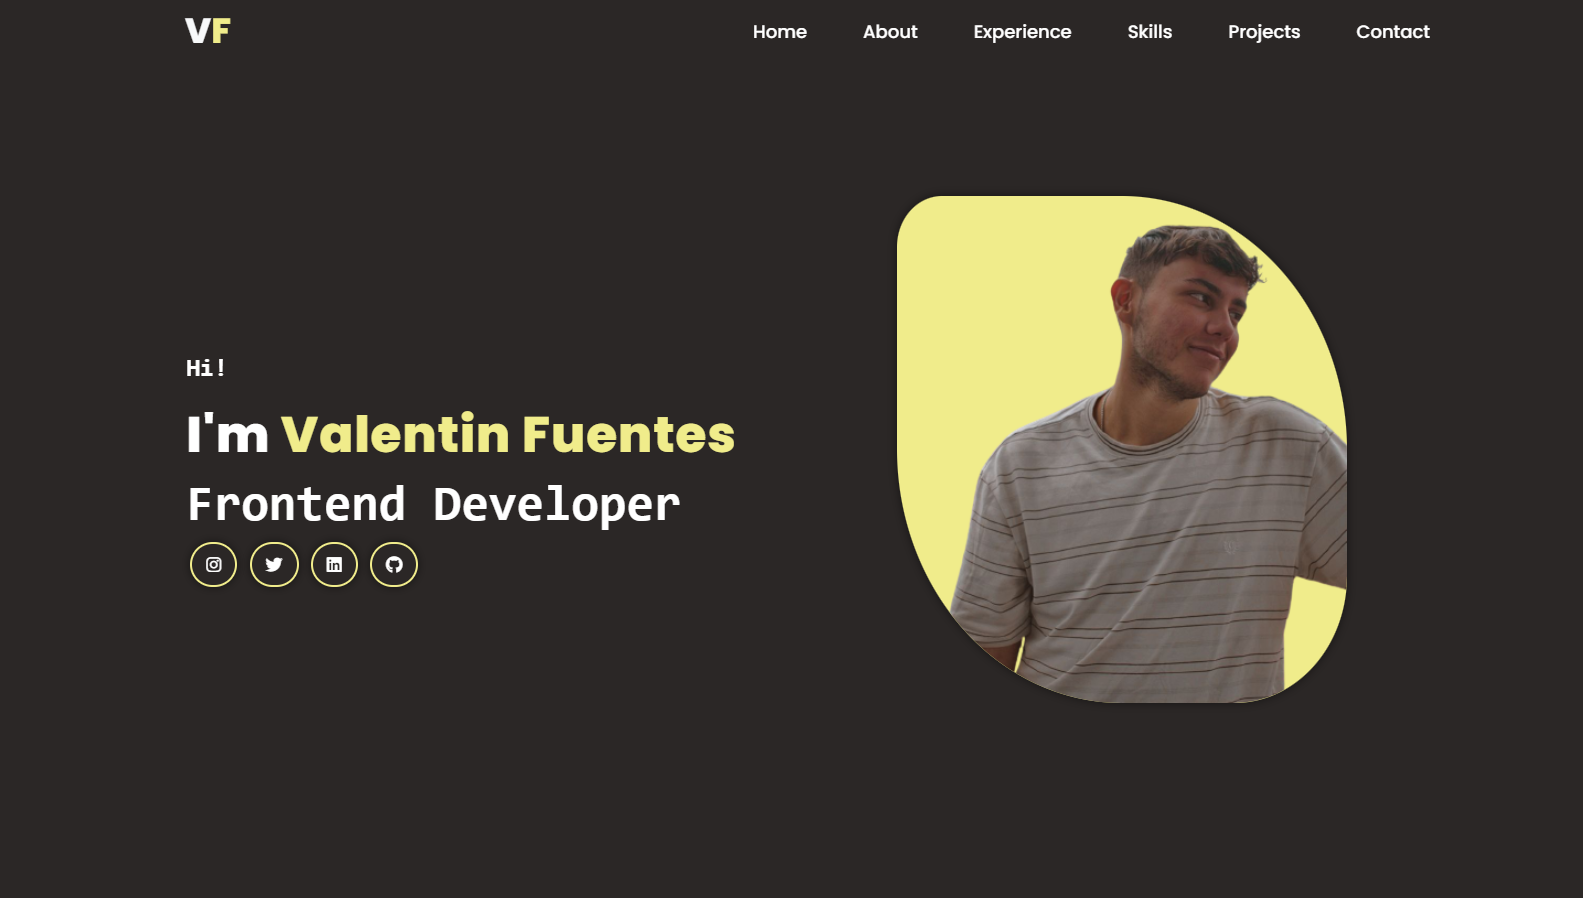
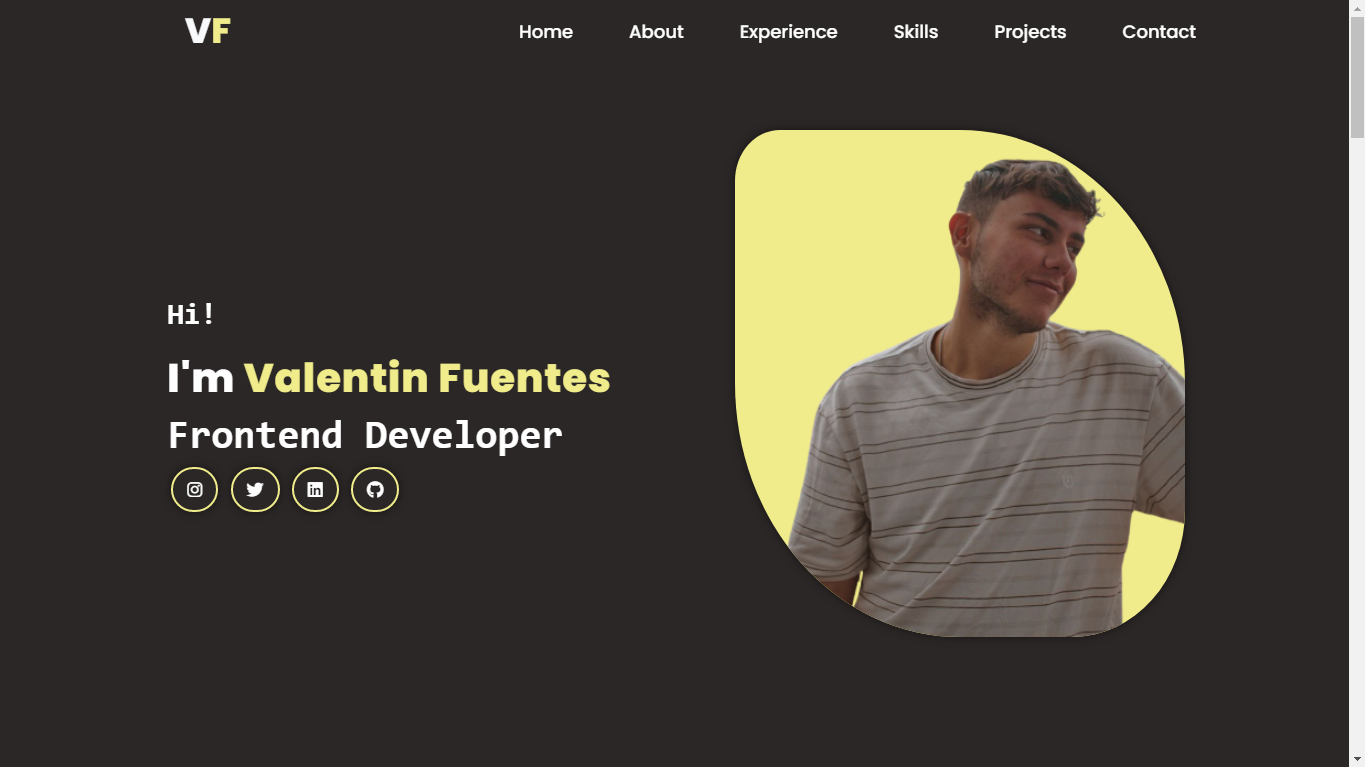
Se pule el proyecto de forma responsive

diff --git a/index.html b/index.html
@@ -288,7 +288,7 @@
                     <div class="popuproject-inner">
                         <div class="popuproject__photo">
                             <h1>My First Project</h1>
-                            <p>Using HTML5, CSS3, SASS, BOOTSRAP5.</p>
+                            <p>Using HTML5, CSS3, JAVASCRIPT, SASS, BOOTSRAP5.</p>
                             <div id="carouselExample1" class="carousel slide">
                                 <div class="carousel-inner">
                                     <div class="carousel-item active">
@@ -302,7 +302,16 @@
                                     </div>
                                     <div class="carousel-item">
                                         <img src="images/projectskills.png" class="img_popuproject" alt="Skills">
-                                        </div>
+                                    </div>
+                                    <div class="carousel-item">
+                                        <img src="images/projectsmyprojects.png" class="img_popuproject" alt="My Projects1">
+                                    </div>
+                                    <div class="carousel-item">
+                                        <img src="images/projectsmyprojects1.png" class="img_popuproject" alt="My Projects2">
+                                    </div>
+                                    <div class="carousel-item">
+                                        <img src="images/projectcontactme.png" class="img_popuproject" alt="Contact Me">
+                                    </div>
                                 </div>
                                 <button class="carousel-control-prev" type="button" data-bs-target="#carouselExample1" data-bs-slide="prev">
                                     <span class="carousel-control-prev-icon" aria-hidden="true"></span>
@@ -324,7 +333,7 @@
             </div>
             <hr class="border"></hr>
             <div class="col-lg-6">
-                <h5 class="subheadings mt-5">Second</h5>
+                <h5 class="subheadings mt-5">Second Project</h5>
                 <p class="para_text mt-5">Lorem, ipsum dolor sit amet consectetur adipisicing elit. Porro, non, explicabo dignissimos quia alias laborum libero praesentium ratione vero sit enim eius suscipit? Tenetur numquam tempore impedit eaque cupiditate sint?</p>
             </div>
             <div class="col-lg-6">
@@ -343,7 +352,7 @@
                     <div class="popuproject-inner">
                         <div class="popuproject__photo">
                             <h1>My Second Project</h1>
-                            <p>Using HTML5, CSS3, SASS, BOOTSRAP5.</p>
+                            <p>Empty.</p>
                             <div id="carouselExample2" class="carousel slide">
                                 <div class="carousel-inner">
                                     <div class="carousel-item active">
@@ -390,7 +399,7 @@
                     <div class="popuproject-inner">
                         <div class="popuproject__photo">
                             <h1>My Third Project</h1>
-                            <p>Using HTML5, CSS3, SASS, BOOTSRAP5.</p>
+                            <p>Empty.</p>
                             <div id="carouselExample3" class="carousel slide">
                                 <div class="carousel-inner">
                                     <div class="carousel-item active">
@@ -421,7 +430,7 @@
                 </div>
             </div>
             <div class="col-lg-6">
-                <h5 class="subheadings mt-5">Third</h5>
+                <h5 class="subheadings mt-5">Third Project</h5>
                 <p class="para_text mt-5">Lorem, ipsum dolor sit amet consectetur adipisicing elit. Voluptatum placeat laudantium cum est quisquam qui modi fugit temporibus laboriosam explicabo, iusto, adipisci commodi cupiditate. Recusandae error distinctio illo! Placeat, maxime.</p>
             </div>
         </div>

diff --git a/js/index.js b/js/index.js
@@ -23,6 +23,52 @@ $(function() {
     
     });
 
+    function hideNavbar() {
+        var navbar = document.getElementById("nav");
+        navbar.style.display = "none";
+    }
+    
+    function showNavbar() {
+        var navbar = document.getElementById("nav");
+        navbar.style.display = "flex";
+    }
+    
+    document.querySelector("a.button",).addEventListener("click", function() {
+        hideNavbar();
+    });
+    
+    document.querySelector(".popup__close").addEventListener("click", function() {
+        showNavbar();
+        var navbar = document.querySelector('.navbar');
+        navbar.style.opacity = 0;
+        navbar.style.transform = 'translateY(-100px)';
+        navbar.style.transition = 'opacity 1s, transform 1s';
+        setTimeout(function() {
+            navbar.style.opacity = 1;
+            navbar.style.transform = 'translateY(0)';
+        }, 100);
+    });
+    
+    document.querySelectorAll("a.card1").forEach(function(card) {
+        card.addEventListener("click", function() {
+            hideNavbar();
+        });
+    });
+    
+    document.querySelectorAll(".popuproject__close").forEach(function(closeButton) {
+        closeButton.addEventListener("click", function() {
+            showNavbar();
+            var navbar = document.querySelector('.navbar');
+            navbar.style.opacity = 0;
+            navbar.style.transform = 'translateY(-100px)';
+            navbar.style.transition = 'opacity 1s, transform 1s';
+            setTimeout(function() {
+                navbar.style.opacity = 1;
+                navbar.style.transform = 'translateY(0)';
+            }, 100);
+        });
+    });
+
 window.sr = ScrollReveal();
     sr.reveal('.navbar', {
         duration: 3000,

diff --git a/css/media.css b/css/media.css
@@ -141,6 +141,8 @@
     }
     iframe {
         display: none;
+        position: relative;
+        right: 0;
     }
 }
 
@@ -165,9 +167,11 @@
     }
     .card1 {
         position: relative;
-        left: 13%;
+        top: 50%;
+        left: 50%;
+        transform: translate(-54%, -20%);
         width: 350px;
-        height: 200px;
+        height: 180px;
     }
     .img_project {
         width: 350px;
@@ -206,6 +210,14 @@
     .site-footer .copyright-text,.site-footer .social-icons {
         text-align: center
     }
+    .contactme {
+        border-radius: 0px;
+        background-color: #2B2726;
+    }
+    .colorful-form {
+        margin-left: 22px;
+        max-width: 575px;;
+    }
 }
 
 @media only screen and (max-width:414px) {
@@ -213,8 +225,6 @@
         font-size: 35px;
     }
     .card1 {
-        position: relative;
-        left: 30px;
         width: 300px;
         height: 150px;
     }

diff --git a/css/style.css b/css/style.css
@@ -332,8 +332,8 @@ body {
   align-items: center;
   max-width: 800px;
   max-height: 600px;
-  width: 60%;
-  height: 80%;
+  width: 90%;
+  height: 90%;
   background-color: #fff;
   transform: rotate(32deg);
   transition: 0.64s ease-in-out;
@@ -693,18 +693,20 @@ body {
   width: 100%;
 }
 .popuproject__photo h1 {
-  position: absolute;
-  top: 0px;
-  left: 35%;
+  position: fixed;
+  top: 5%;
+  left: 50%;
+  transform: translate(-50%, -50%);
   font-size: 2rem;
   font-weight: 600;
   color: #2B2726;
   margin-top: 40px;
 }
 .popuproject__photo p {
-  position: absolute;
-  top: 40px;
-  left: 34%;
+  position: fixed;
+  top: 10%;
+  left: 50%;
+  transform: translate(-50%, -50%);
   font-size: 0.875rem;
   color: #2B2726;
   line-height: 1.5;

diff --git a/css/module/_media.scss b/css/module/_media.scss
@@ -192,8 +192,8 @@
 		align-items: center;
 		max-width: 800px;
 		max-height: 600px;
-		width: 60%;
-		height: 80%;
+		width: 90%;
+		height: 90%;
 		background-color: #fff;
 		transform: rotate(32deg);
 		transition: .64s ease-in-out;
@@ -522,18 +522,20 @@
 			width: 100%;
 		}
 		h1 {
-			position: absolute;
-			top: 0px;
-			left: 35%;
+			position: fixed;
+			top: 5%;
+			left: 50%;
+			transform: translate(-50%, -50%);
 			font-size: 2rem;
 			font-weight: 600;
 			color: $bg;
 			margin-top: 40px;
 		}
 		p {
-			position: absolute;
-			top: 40px;
-			left: 34%;
+			position: fixed;
+			top: 10%;
+			left: 50%;
+			transform: translate(-50%, -50%);
 			font-size: .875rem;
 			color: $bg;
 			line-height: 1.5;
